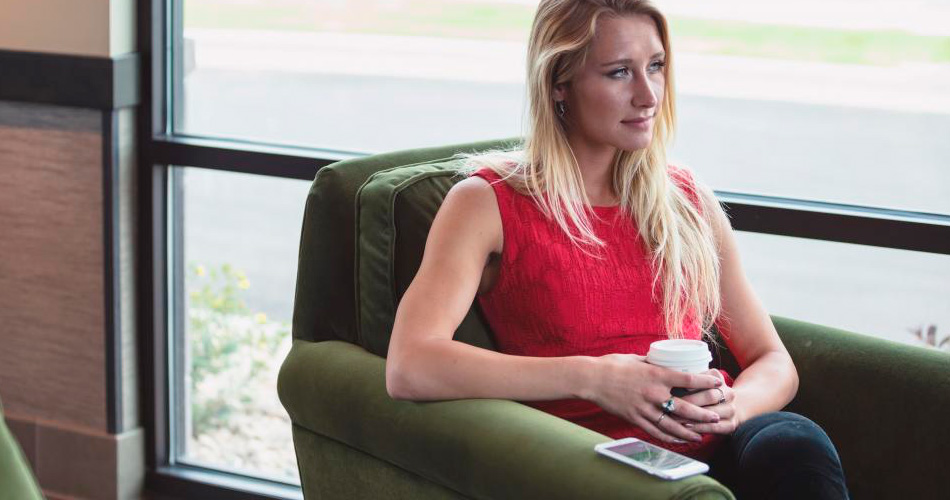
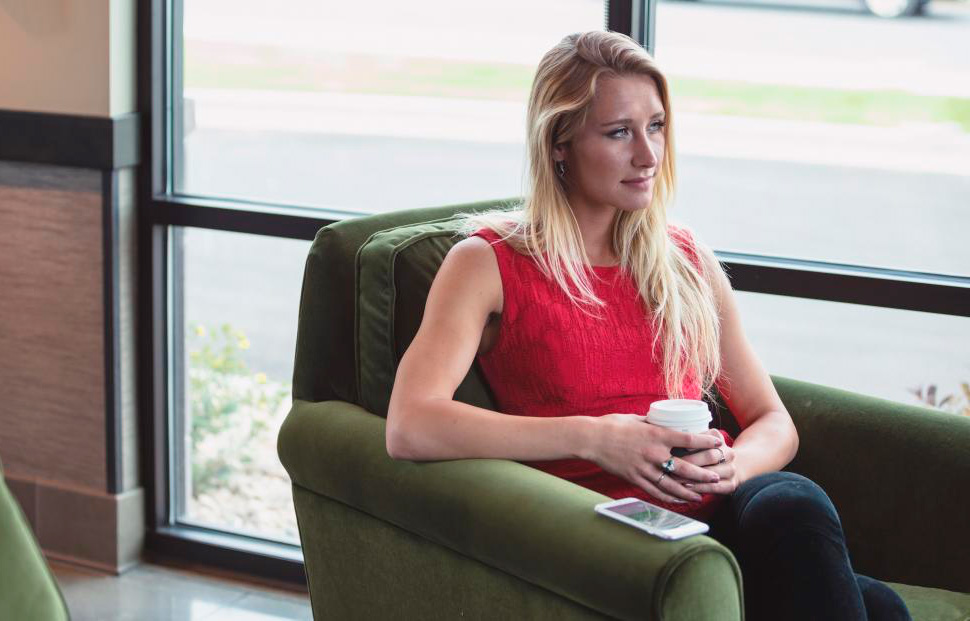
add img, text, need fix text

diff --git a/index.html b/index.html
@@ -6,6 +6,7 @@
     <link rel="preconnect" href="https://fonts.googleapis.com">
     <link rel="preconnect" href="https://fonts.gstatic.com" crossorigin>
     <link href="https://fonts.googleapis.com/css2?family=Open+Sans:wght@400;700&family=Raleway:wght@400;600;700&display=swap" rel="stylesheet">
+    <link href="https://fonts.googleapis.com/css2?family=Cardo:ital@1&display=swap" rel="stylesheet">
     <link rel="stylesheet" href="main.css">
     <title>ActiveBox</title>
 </head>
@@ -241,6 +242,25 @@
                 <img src="img/soical_icons/twitter.jpg" alt="twitter">
                     </div>
                 </div>
+            </div>
+        </div>
+
+        <div class="slider-container">
+            <div class="slider">
+                <div class="slide slide1">
+                    <div class="slider-img"></div>
+                    <div class="slider-text-container">
+                        <div class="slider-text">
+                            <h1>“Integer posuere erat a ante venenatis dapibus posuere velit
+                                aliquet. Donec sed odio dui. Aenean eu leo quam...”</h1>
+                            <p>Susan Sims, Interaction Designer at XYZ</p>
+                        </div>
+                    </div>
+                </div>
+                <div class="slide"></div>
+                <div class="slide"></div>
+                <div class="slide"></div>
+                <div class="slide"></div>
             </div>
         </div>
     </main>

diff --git a/main.css b/main.css
@@ -208,3 +208,45 @@ main .team_container .worker h2{
 main .team_container .worker h1{
     font-weight: 400;
 }
+
+
+
+main .slider-container {
+    width: 100%;
+    height: 500px;
+    overflow: hidden;
+}
+main .slide {
+    display: flex;
+    background-color: #53354a;
+    color: white;
+    background-size: cover;
+}
+main .slide1 .slider-img {
+    width: 50%;
+    height: 500px;
+    background: url('img/clients_slider/woman.jpg') center no-repeat;
+}
+main .slider-text-container {
+    width: 50%;
+    height: 500px;
+    display: flex;
+    flex-direction: column;
+    justify-content: center;
+    align-items: center;
+}
+main .slider-text {
+    width: 500px;    
+}
+main .slider-text h1 {
+    margin-bottom: 40px;
+    font-family: "Cardo", serif;
+    font-weight: 400;
+    font-style: italic;
+    font-size: 36px;
+}
+main .slider-text p {
+    font-size: 13px;
+    font-weight: bold;
+    text-transform: uppercase;
+}
